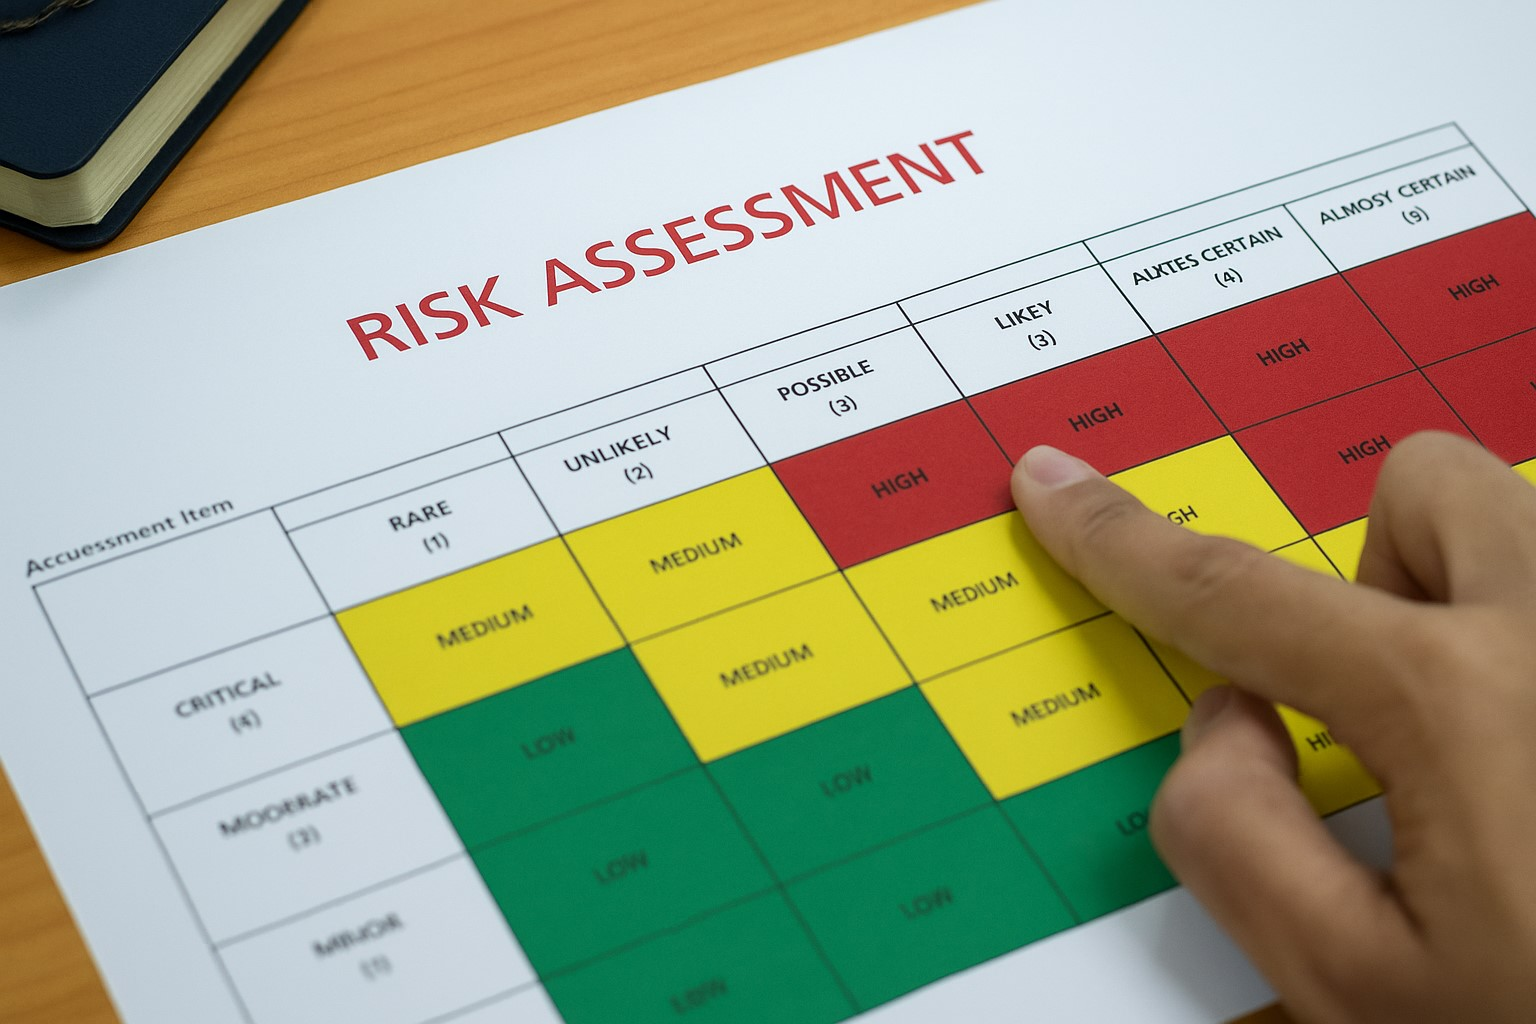
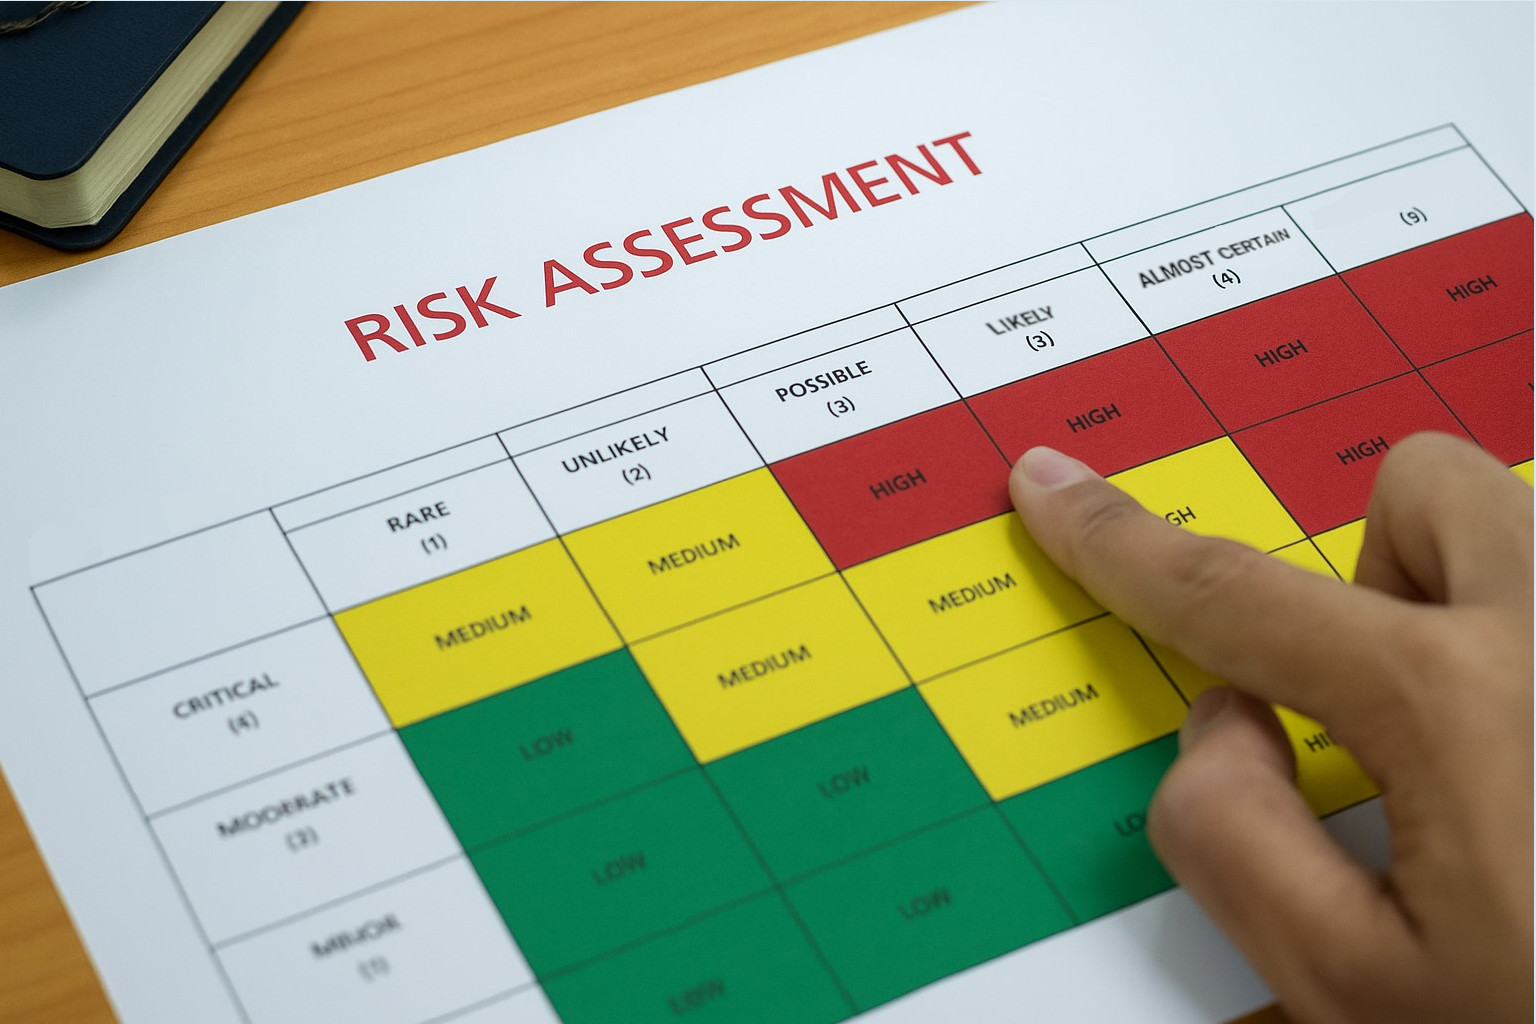
Fix misspelled image text and positioning on website

diff --git a/assets/scss/templates/_slider.scss b/assets/scss/templates/_slider.scss
@@ -1,7 +1,7 @@
 .slider{
   background-repeat: no-repeat;
   background-size: cover;
-  background-position: left 10% top 20%;
+  background-position: left 0% bottom 0%;
   padding:100px 0;
   position: relative;
   background-attachment: fixed;
